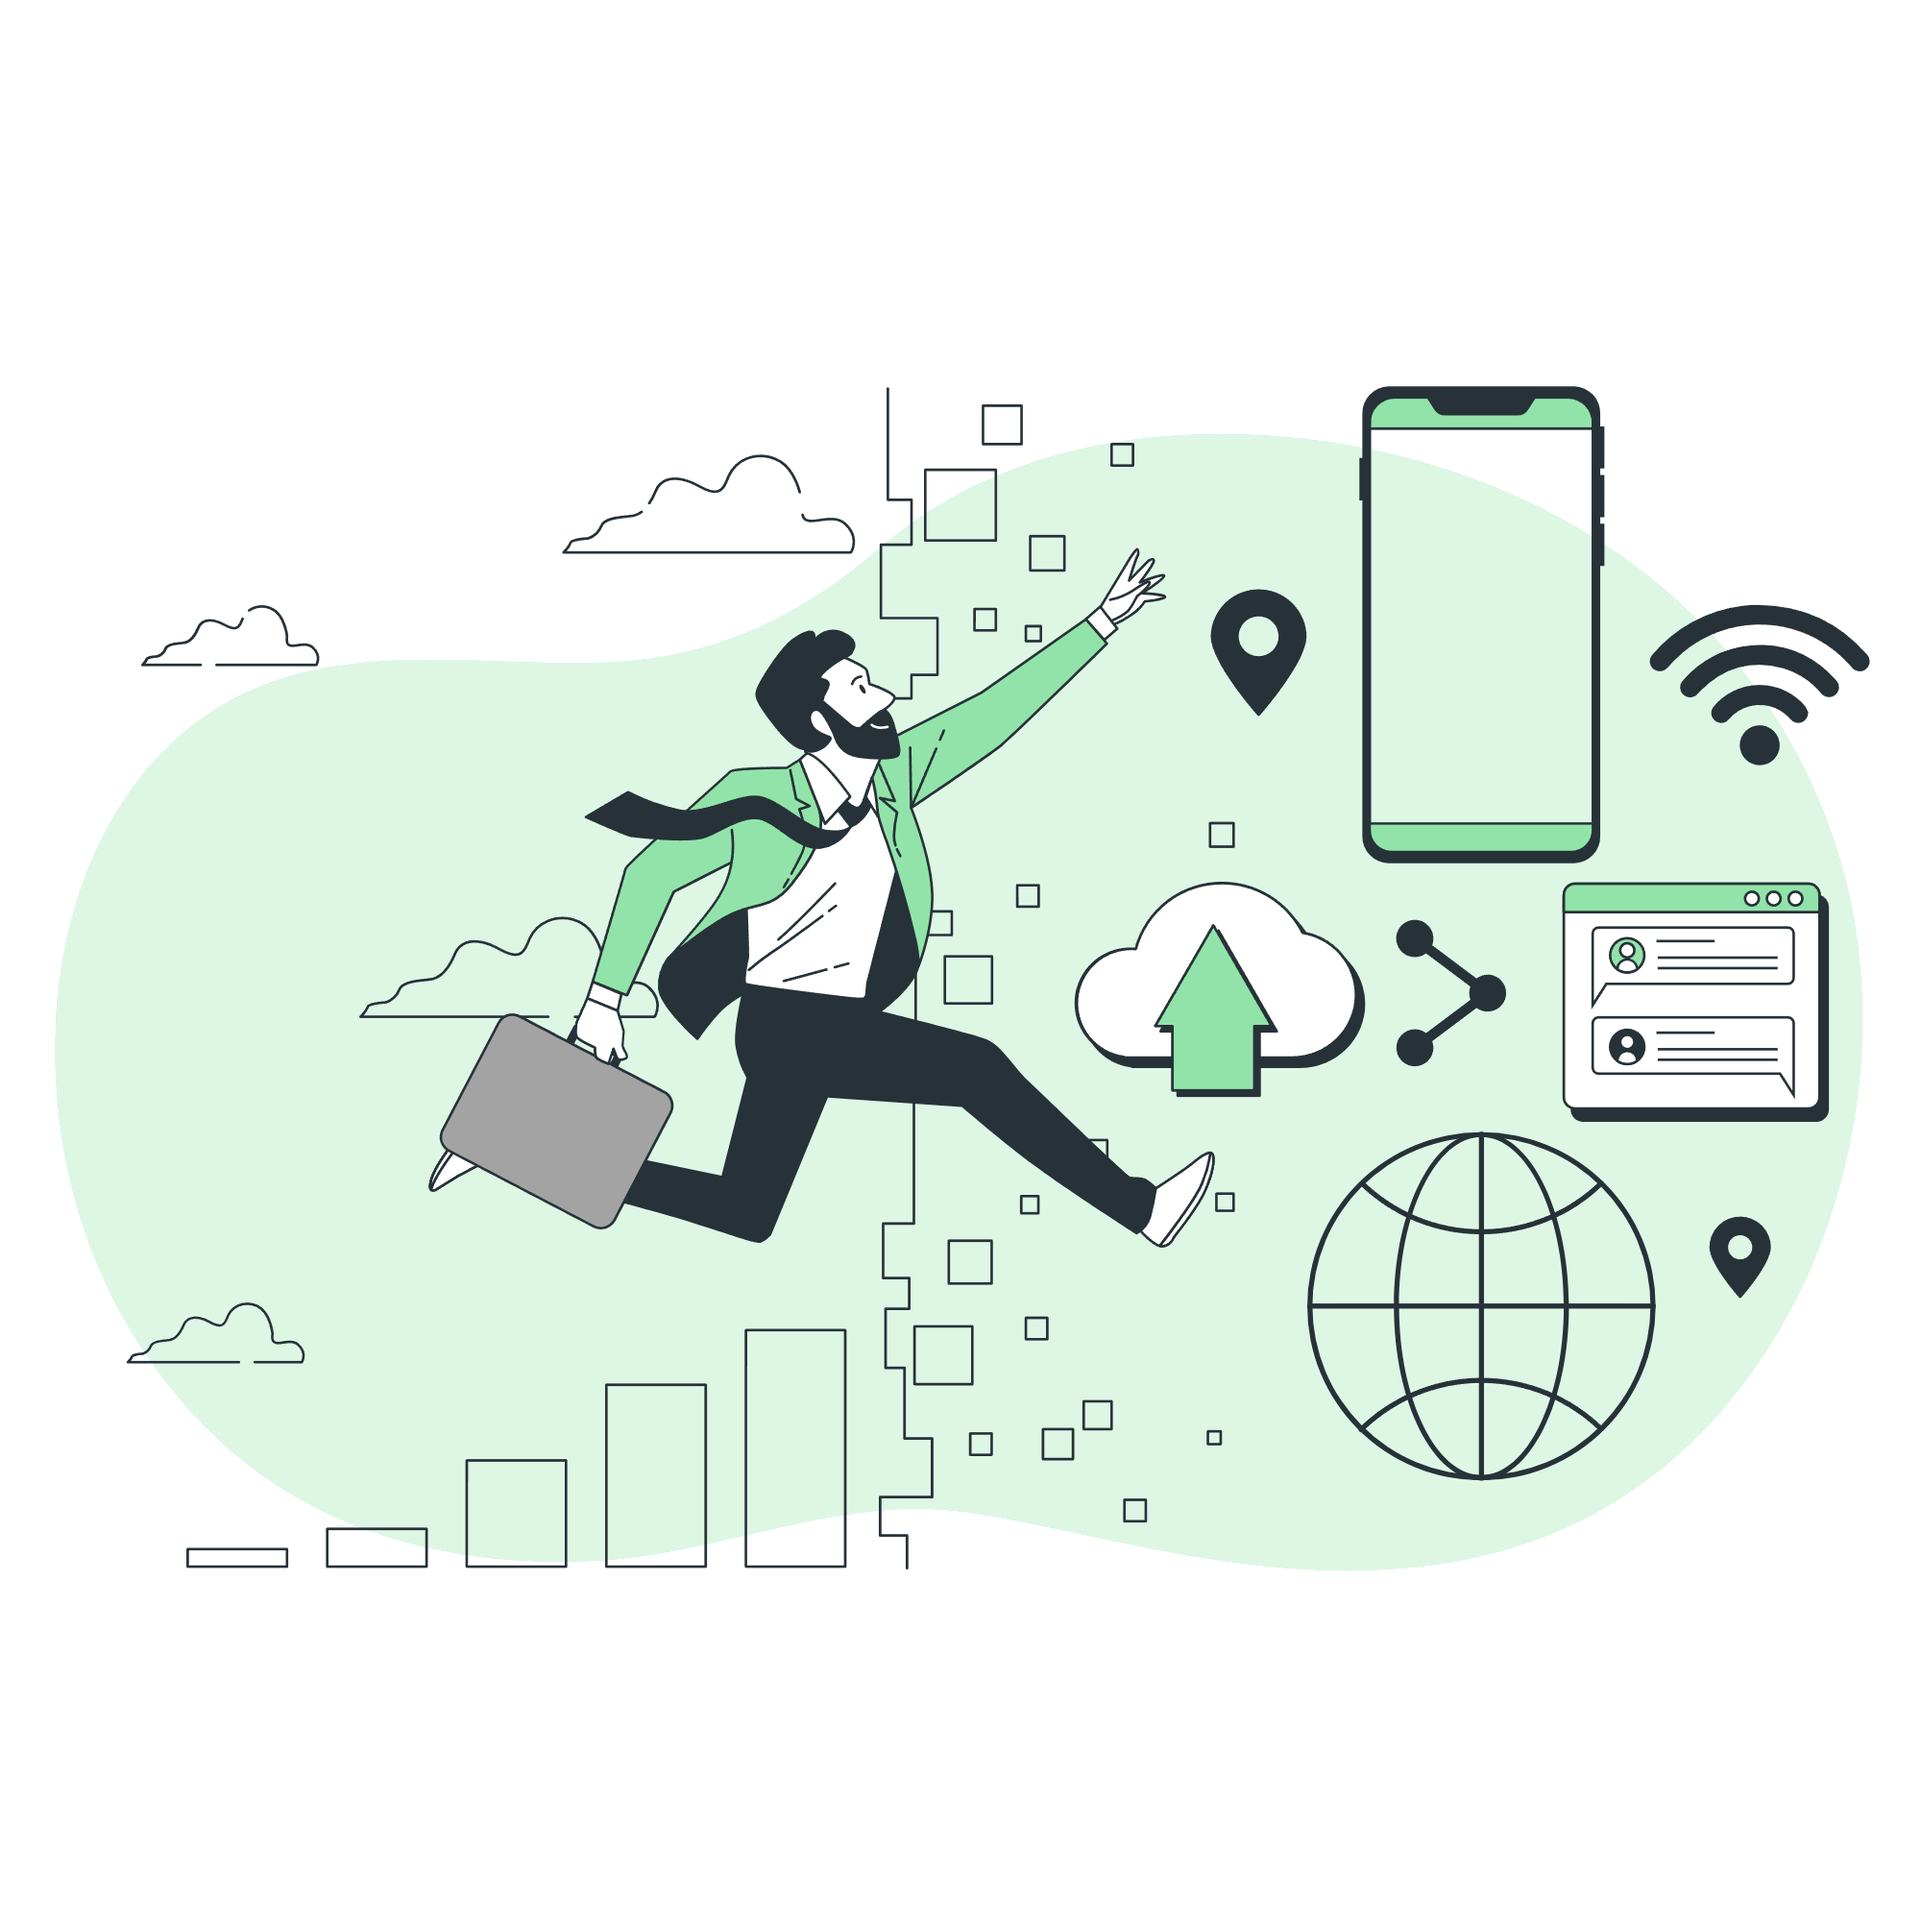
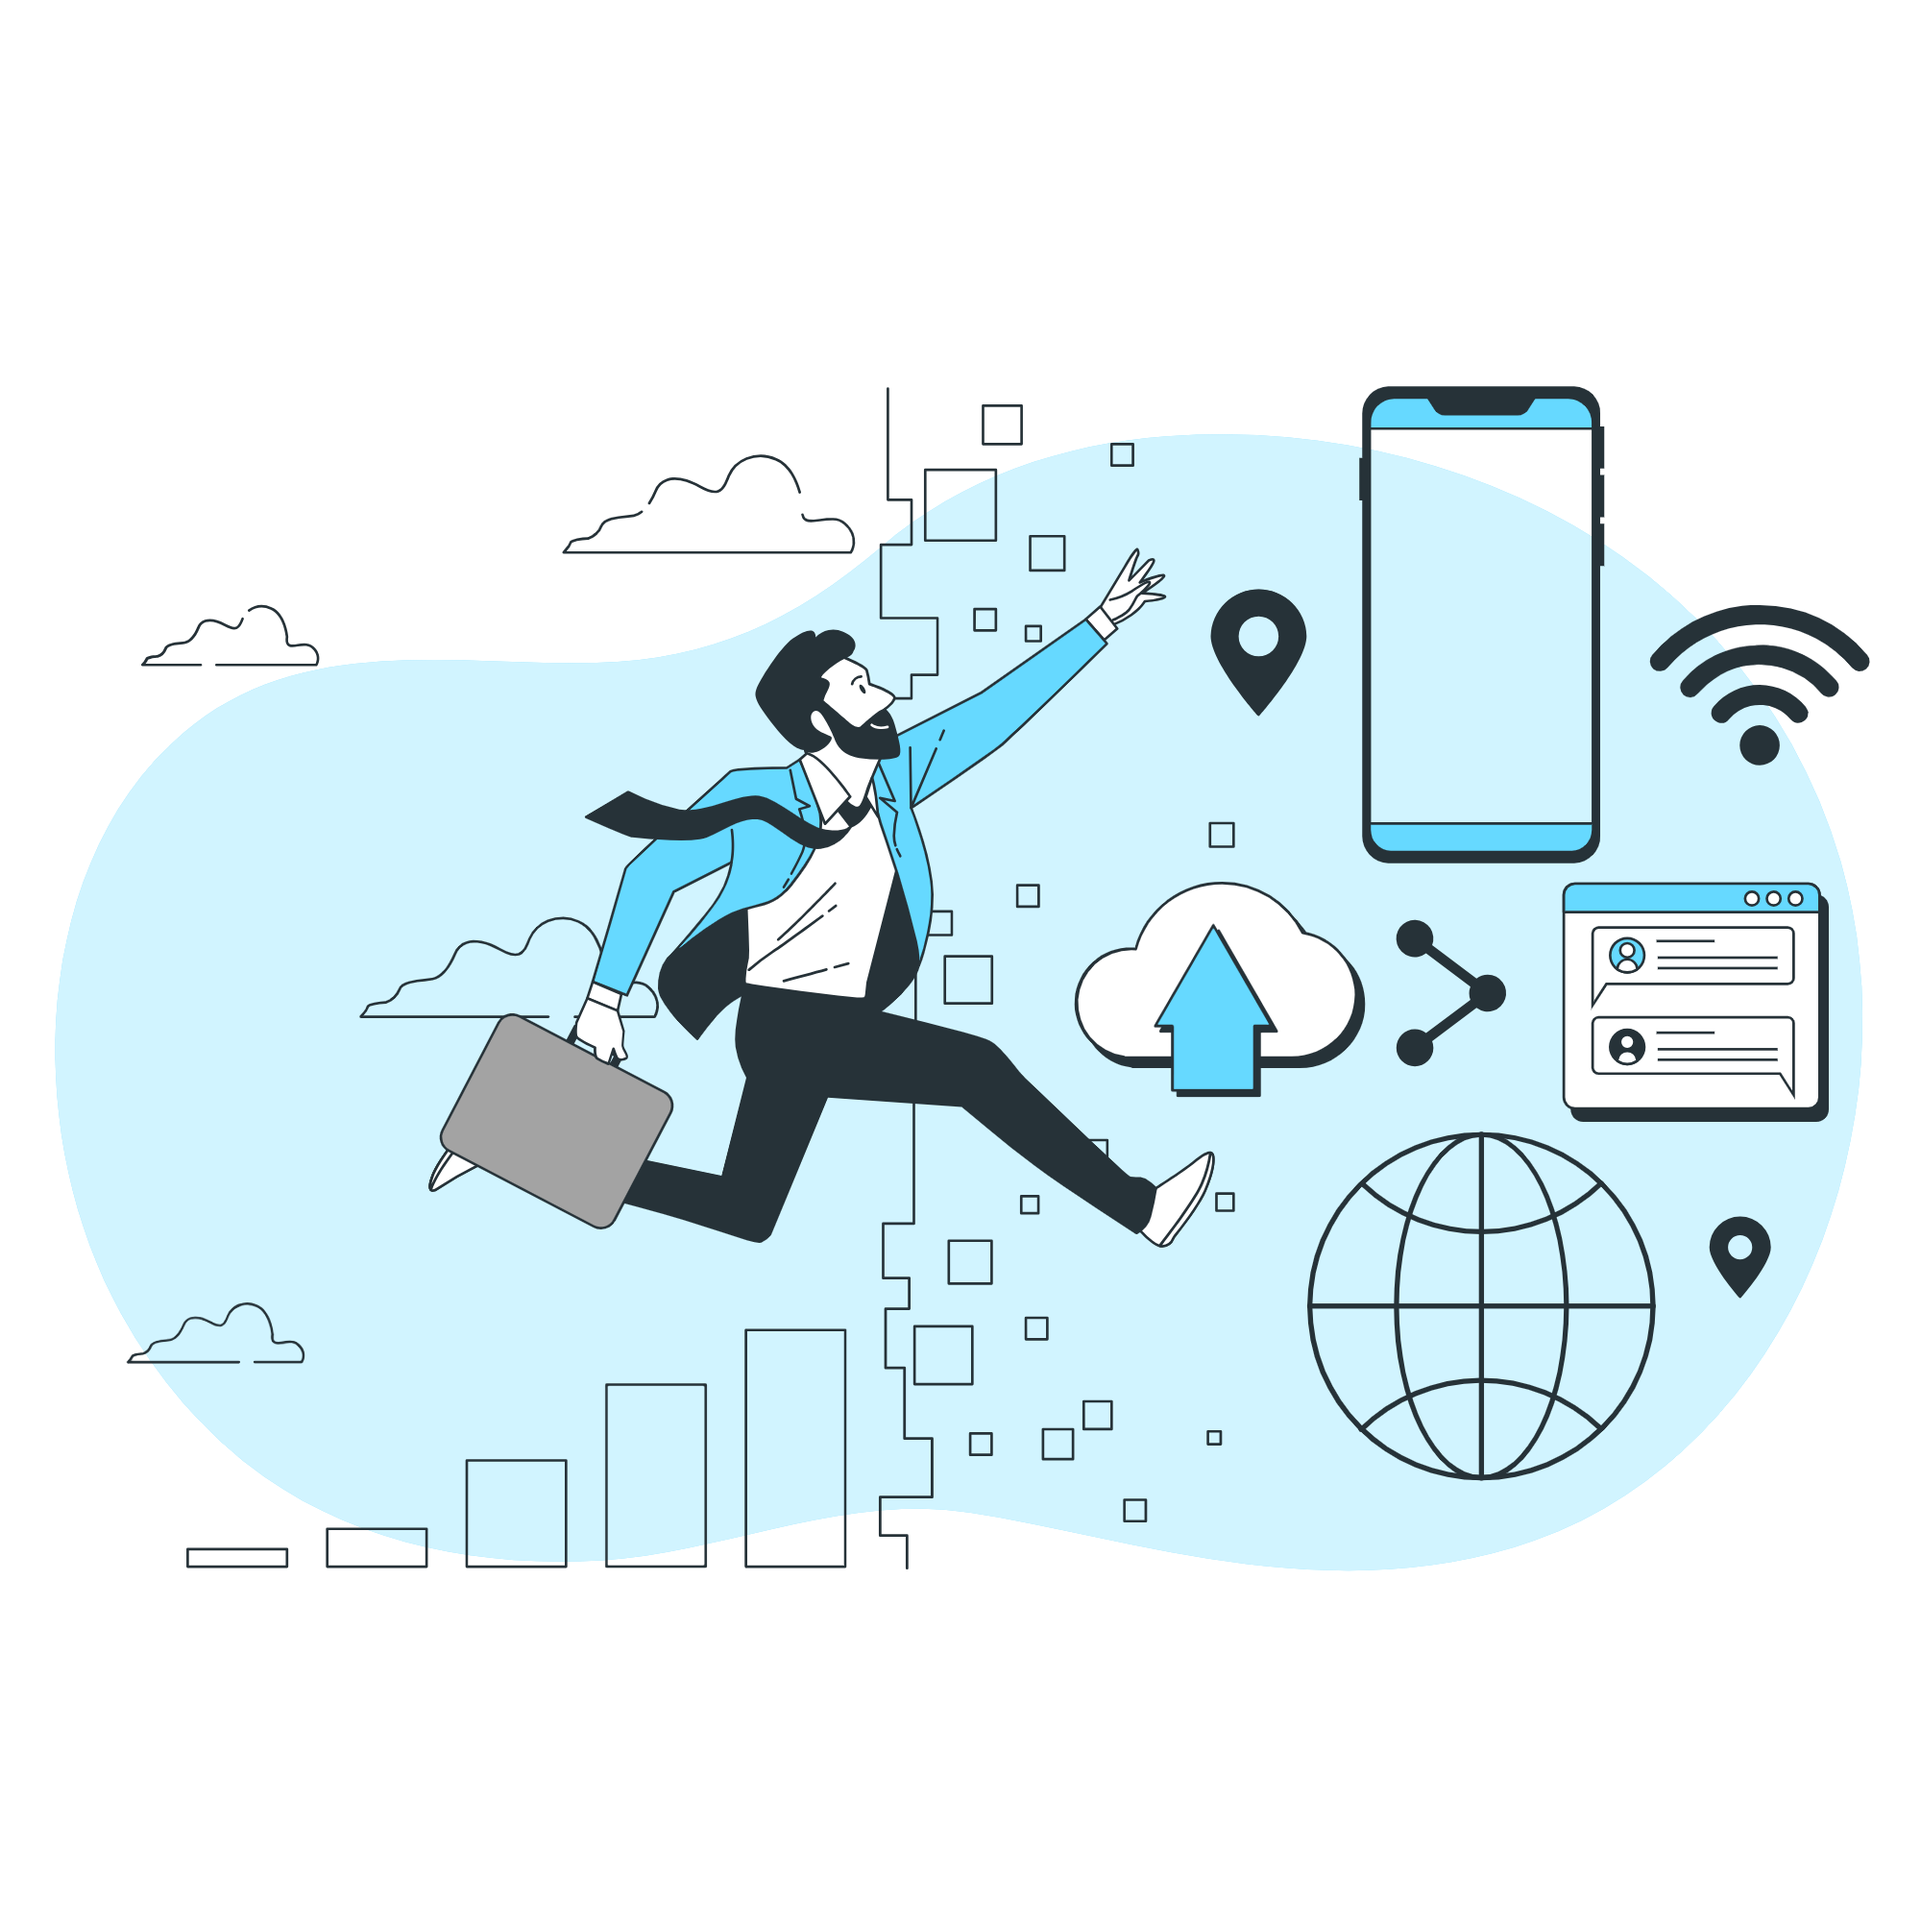
some changes in magrapatta page

diff --git a/pages/magarpatta.html b/pages/magarpatta.html
@@ -9,27 +9,27 @@
 <body>
     <div class="cont-1">
         <div class="sec-1">
-            <p class="head-name">magarpatta it park</p>
+            <p class="head-name">Magarpatta it park</p>
             <p class="sub-header">INDIA'S FASTEST GROWING IT HUB</p>
         </div>
         <div>
-            <img src="./../img/magarpatta-img/Magarpatta- Drone.jpg" alt="head-img">
+            <img src="./../img/magarpatta-img/Cloud-CASB-hero_blur.png" class="head-img">
         </div>
 
     </div>
 
-    <div class cont-2>
-        <p class="slogen">magarpatta - the fastest growing cybercity</p>
+    <div class="cont-2">
+        <p class="slogen">Magarpatta - The fastest growing cybercity</p>
     </div>
     <div class="history-paragraph">
         <button class="history">History</button>
-        <div class="history-info">Lorem ipsum dolor sit amet, consectetur adipisicing elit. Provident earum ut accusamus iste id atque ipsa, eum natus facere ratione quis dolore porro necessitatibus soluta nesciunt quo temporibus aliquid adipisci?
+        <div class="history-info">Situated in Magarpatta, Cybercity is one of the oldest and first-ever IT parks and township in Pune. Spread over a whopping 430 acres, Cybercity is a swanky glass tower IT park located inside Magarpatta City. The fully facilitated, advanced commercial building has an infrastructure to suit the needs of any IT company in an uncompromised manner with world-class facilities to enable high quality IT and ITES delivery. They have flexible office spaces so making switches based on your organisation structure is a cakewalk. The good part is you can always choose to stay in Magarpatta itself as the huge township has schools, malls, residences and a lot more. This would make your crazy deadlines and work-life easy. Currently, Cybercity has offices of brands like Qualitas IT Pvt Ltd, Maverick IT, Sybase An SAP Company, Accenture, CapGemini, Red Hat India Private Limited, HCL Technologies Limited and many more.
         </div>
         <img src="./../img/magarpatta-img/Digital transformation-bro.png" class="history-img"/>
     </div>
     <div class="sec-3">
         <button class="infra">Inftrastructure</button>
-        <img src="./../img/magarpatta-img/Golden gate bridge-bro.png/>
+        
     </div>
 </body>
 </html>

diff --git a/css/magarpatta.css b/css/magarpatta.css
@@ -2,13 +2,12 @@
     margin: 0;
     padding: 0;
 }
-
 .cont-1
 {height: 100;
     width:100%;
     display: flex;
     flex-direction: row;
-    background: linear-gradient(rgb(0,0,0,0.9),rgba(0,0,0,0.8)),url(./../img/magarpatta-img/Magarpatta-\ Drone.jpg);
+    background: linear-gradient(rgba(0,0,0,0.8),rgba(0,0,0,0.7)),url(./../img/magarpatta-img/Magarpatta-\ Drone.jpg);
     opacity: 0.9;
     background-color: cover;
 }
@@ -29,8 +28,8 @@
 .sub-header {
     font-size: 23px;
     margin-top: 20px;
-    color: #94bc45;
-    margin-left: 55px;
+    color: #99e6ff;
+    margin-left: 85px;
     font-family: Cambria, Cochin, Georgia, Times, 'Times New Roman', serif;
 }
 
@@ -42,10 +41,10 @@
 }
 
 .cont-2{
-    
+
     height: 60px;
     width: 100%; 
-    background-color:#009966;  
+    background-color:#00ace6;  
 }
 
 .slogen
@@ -57,4 +56,46 @@
     font-family: 'Gill Sans', 'Gill Sans MT', Calibri, 'Trebuchet MS', sans-serif;
 
 }
-
+.history
+{
+    background-color: #66d9ff;
+    color: white;
+    margin-left: 50px;
+    border: none;
+    height: 125px;
+    width: 130px;
+    padding: 3px;
+    font-size: 35px;
+    border-bottom-left-radius: 100px;
+    border-bottom-right-radius: 100px;
+    font-family: 'Gill Sans', 'Gill Sans MT', Calibri, 'Trebuchet MS', sans-serif;
+}
+.history-info
+{
+    font-size: 20px;
+    color: #006080;
+    font-family:'Gill Sans', 'Gill Sans MT', Calibri, 'Trebuchet MS', sans-serif;
+    margin-left: 35px;
+    margin-right: 10px;
+    margin-top: 80px;
+    text-align: justify;
+}
+.history-img
+{
+    height: 600px;
+    width: 500px;
+}
+.infra
+{
+    background-color: #66d9ff;
+    color: white;
+   margin-top:50px;
+    border: none;
+    height: 100px;
+    width: 220px;
+    padding: 3px;
+    font-size: 35px;
+    border-bottom-right-radius: 150px;
+    border-top-right-radius: 150px;
+    font-family: 'Gill Sans', 'Gill Sans MT', Calibri, 'Trebuchet MS', sans-serif;
+}

diff --git a/css/hinjevadi.css b/css/hinjevadi.css
@@ -1,9 +1,7 @@
 
 * {
-
     margin: 0;
     padding: 0;
-    
 }
 
 .container-1 {
